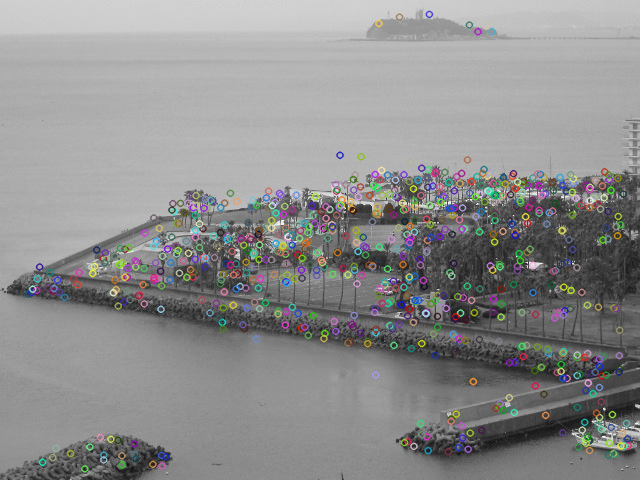
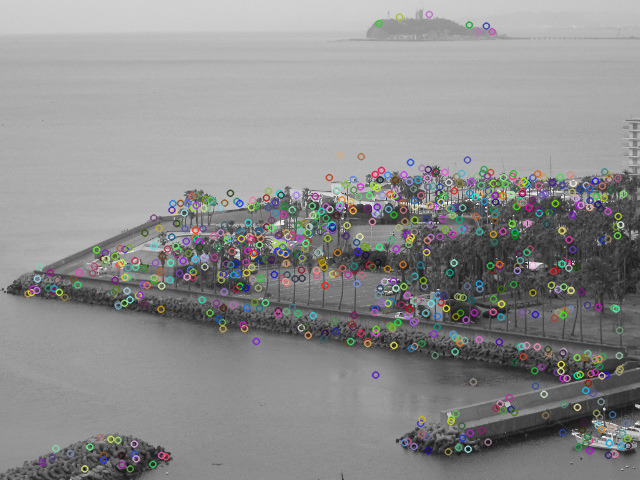
Panorama - a faire crop image

diff --git a/5-features/panorama.cpp b/5-features/panorama.cpp
@@ -17,15 +17,20 @@ using namespace std;
 void
 process(const char* imsname1, const char* imsname2)
 {
-  cout<<"\n---------------------------------------------------\n"<<endl;
+  cout<<"\n----------------------------------------------------\n"<<endl;
   cout<<"\n--------------- EXERCICE : PANORAMA  ---------------\n"<<endl;
-  cout<<"\n---------------------------------------------------\n"<<endl;
+  cout<<"\n----------------------------------------------------\n"<<endl;
 
   //Read imsname1 and imsname2 if they exist
-  Mat ims1 = imread(imsname1,0);
-  Mat ims2 = imread(imsname2,0);
+  Mat ims1_color = imread(imsname1,1);
+  Mat ims2_color = imread(imsname2,1);
 
-  if(!ims1.data || !ims2.data){
+  //Convert the color image in gray
+  Mat ims1_gray, ims2_gray;
+  cvtColor(ims1_color, ims1_gray, CV_BGR2GRAY);
+  cvtColor(ims2_color, ims2_gray, CV_BGR2GRAY);
+
+  if(!ims1_gray.data || !ims2_gray.data){
     cerr<<"Image not found, exit"<<endl;
     exit(EXIT_FAILURE);
   }
@@ -37,18 +42,14 @@ process(const char* imsname1, const char* imsname2)
 
   std::vector<KeyPoint> keypoints_1, keypoints_2;
 
-  detector.detect( ims1, keypoints_1 );
-  detector.detect( ims2, keypoints_2 );
+  detector.detect( ims1_gray, keypoints_1 );
+  detector.detect( ims2_gray, keypoints_2 );
 
   //-- Draw keypoints --//
   Mat img_keypoints_1; Mat img_keypoints_2;
 
-  drawKeypoints( ims1, keypoints_1, img_keypoints_1, Scalar::all(-1), DrawMatchesFlags::DEFAULT );
-  drawKeypoints( ims2, keypoints_2, img_keypoints_2, Scalar::all(-1), DrawMatchesFlags::DEFAULT );
-
-  //-- Show detected (drawn) keypoints
-  imshow("Descripteur SURF image 1", img_keypoints_1 );
-  imshow("Descripteur SURF image 2", img_keypoints_2 );
+  drawKeypoints( ims1_gray, keypoints_1, img_keypoints_1, Scalar::all(-1), DrawMatchesFlags::DEFAULT );
+  drawKeypoints( ims2_gray, keypoints_2, img_keypoints_2, Scalar::all(-1), DrawMatchesFlags::DEFAULT );
 
   //-- Save images with detected (drawn) keypoints
   imwrite("Descripteur_SURF_image_1.png", img_keypoints_1 );
@@ -59,8 +60,8 @@ process(const char* imsname1, const char* imsname2)
 
   Mat descriptors_1, descriptors_2;
 
-  extractor.compute( ims1, keypoints_1, descriptors_1 );
-  extractor.compute( ims2, keypoints_2, descriptors_2 );
+  extractor.compute( ims1_gray, keypoints_1, descriptors_1 );
+  extractor.compute( ims2_gray, keypoints_2, descriptors_2 );
 
   //--  Matching descriptor vectors with a brute force matcher
   BFMatcher matcher(NORM_L2);
@@ -69,10 +70,7 @@ process(const char* imsname1, const char* imsname2)
 
   //-- Draw matches
   Mat img_matches;
-  drawMatches( ims1, keypoints_1, ims2, keypoints_2, matches, img_matches );
-
-  //-- Show images with detected (drawn) matches
-  imshow("Appariements Brute Force", img_matches );
+  drawMatches( ims1_gray, keypoints_1, ims2_gray, keypoints_2, matches, img_matches );
 
   //-- Save images with detected (drawn) matches
   imwrite("Appariements_Brute_Force.png", img_matches );
@@ -91,8 +89,6 @@ process(const char* imsname1, const char* imsname2)
     }
   }
 
-  cout << "-- Min dist : " << min_dist << endl;
-
   //-- Draw only "good" matches (i.e. whose distance is less than 3*min_dist,
   //-- or a small arbitary value ( 0.02 ) in the event that min_dist is very
   //-- small)
@@ -105,17 +101,14 @@ process(const char* imsname1, const char* imsname2)
 
   //-- Draw "good" matches and keypoints
   Mat img_tmatches;
-  drawMatches( ims1, keypoints_1, ims2, keypoints_2,
+  drawMatches( ims1_gray, keypoints_1, ims2_gray, keypoints_2,
                good_matches, img_tmatches, Scalar::all(-1), Scalar::all(-1),
                vector<char>());
-
-  //-- Show  images with good (drawn) matches
-  imshow("Appariements seuillés",img_tmatches);
 
   //-- Save images with good (drawn) matches
   imwrite("appariements_seuilles.png", img_tmatches );
 
-  // -- Step 4: Homography -- //
+  // -- Step 4: Homography - Estimate deformation -- //
 
   //-- Localize the object
   std::vector<Point2f> scene_1;
@@ -129,27 +122,49 @@ process(const char* imsname1, const char* imsname2)
 
   Mat ransac_homography = findHomography( scene_2, scene_1, CV_RANSAC );
 
-  //-- Get the corners from the image_1 ( the scene_1 to be "detected" )
+  //-- Get the corners from the image_2 ( the scene_1 to be "detected" )
   std::vector<Point2f> scene_1_corners(4);
   std::vector<Point2f> scene_2_corners(4);
-  scene_2_corners[0] = cvPoint(0,0); scene_2_corners[1] = cvPoint( ims1.cols, 0 );
-  scene_2_corners[2] = cvPoint( ims2.cols, ims2.rows ); scene_2_corners[3] = cvPoint( 0, ims2.rows );
 
-  Mat imd_homography(ims2.size(), CV_8UC1);
+  scene_2_corners[0] = cvPoint(0,0);
+  scene_2_corners[1] = cvPoint( ims2_gray.cols, 0 );
+  scene_2_corners[2] = cvPoint( ims2_gray.cols, ims2_gray.rows );
+  scene_2_corners[3] = cvPoint( 0, ims2_gray.rows );
+
+  Mat imd_homography;
   perspectiveTransform(scene_2_corners, scene_1_corners, ransac_homography);
-  warpPerspective(ims2, imd_homography, ransac_homography, ims1.size()+ims2.size());
+  warpPerspective(ims2_color, imd_homography, ransac_homography, ims1_gray.size()+ims2_gray.size());
 
-  cout << "imd_homography type : " << imd_homography.type() << " | channels : " << imd_homography.channels()  << endl;
+  imwrite("homography.png", imd_homography);
 
-  Mat imd_homography_color(ims2.size(), CV_8UC3);
-  cout << "imd_homography_color type : " << imd_homography_color.type() << " | channels : " << imd_homography_color.channels() << endl;
-  cvtColor(imd_homography, imd_homography_color, CV_GRAY2BGR);
-  imshow("Image 2 déformée par H", imd_homography_color);
-  imwrite("Homography.png", imd_homography_color);
+  //-- Build the diaporama from the previous step
+  Mat imd_panorama(imd_homography,Rect(0,0,ims1_color.cols,ims1_color.rows));
+  ims1_color.copyTo(imd_panorama);
 
-  // Mat imd_panorama(ims2.size(), CV_8UC3);
-  // hcontcat(ims1,imd_homography,imd_panorama);
-  // imshow("panorama",imd_panorama);
+  imwrite("panorama.png", imd_homography);
+
+  cout<<imd_homography.size()<<endl;
+  int xmax=0;
+  int ymax=0;
+  for(int i=0; i<imd_homography.cols;i++){
+    for(int j=0; j<imd_homography.rows; j++){
+    // if(imd_homography.ptr<Vec3b>(i)[j][0] == 0){
+      if( j > xmax && imd_homography.ptr<Vec3b>(i-1)[j][0] > 0 && imd_homography.ptr<Vec3b>(i)[j][0] == 0){
+        xmax = j;
+      }
+      if( i > ymax && imd_homography.ptr<Vec3b>(i)[j-1][0] > 0 && imd_homography.ptr<Vec3b>(i)[j][0] == 0){
+        ymax = i;
+      }
+    // }
+    }
+  }
+
+  cout<<xmax<<" et "<<ymax<<endl;
+  // Rect myROI(0, 0, max ,j_black_p);
+  // Mat final_panorama = imd_homography(myROI);
+  //
+  // imshow("final panorama", final_panorama);
+
   waitKey(0);
 }
 
